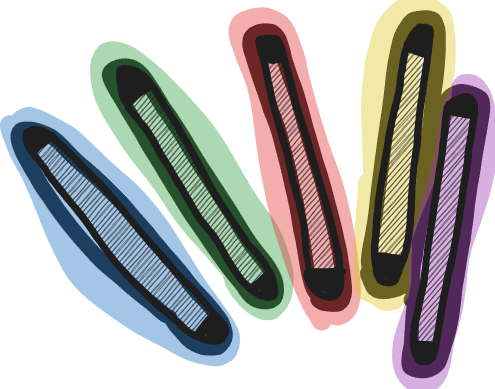
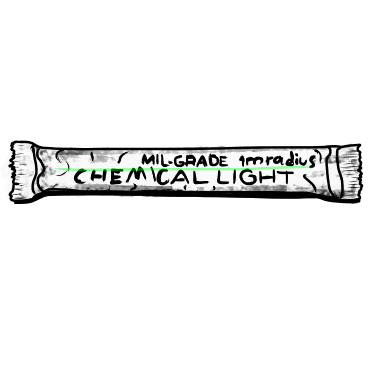
images

diff --git a/data.js b/data.js
@@ -22,7 +22,7 @@ const weapon = new Map([
     ["Stun Baton",      [null,"150cr","Adjacent","1d5 DMG","N/A","Blunt Force","Body Save or stunned 1 round.","stunbaton"]],
     ["Tranq Pistol",    ["D&C 7","250cr","Close","1d5 DMG","6","Blunt Force","If DMG dealt: enemy must Body Save or be unconscious 1d10 rounds.","tranq"]],
     ["Vibechete",       [null,"1kcr","Adjacent","3d10 DMG (AA)","N/A","Bleeding + Gore","When dealing a Wound, roll on BOTH the Bleeding AND Gore columns.","vibechete"]],
-    ["EMP Javelin*",    [null,"cost","Close","1d10 DMG","1","Bleeding","Disables electronics while embedded.","missing"]],
+    ["EMP Javelin*",    [null,"cost","Close","1d10 DMG","1","Bleeding","Disables electronics while embedded.",null]],
 
 ]);
 
@@ -34,7 +34,7 @@ const armor = new Map([
     ["Hazard Suit",             ["Environmental protection while exploring unknown planets.","4kcr","5","1 hrs","Normal",null,"Includes air filter, extreme heat/cold protection, hydration reclamation (1L of water lasts 4 days), short-range comms, headlamp, and radiation shielding.","hazardssuit"]],
     ["Standard Battle Dress",   ["Lightly-plated armor worn by most marines.","2kcr","7","None","Normal",null,"Includes short-range comms.","stdbattle"]],
     ["Advanced Battle Dress",   ["Heavy armor for marines deployed in high combat offworld engagements.","12kcr","10","1 hr","[-]",null,"Includes short-range comms, body cam, headlamp, HUD, exoskeletal weave (Strength Checks [+]), and radiation shielding. Damage Reduction: 3.","advanced battle dress1"]],
-    ["Standard Armor Vest*",    ["Light armor worn by law-enforcement.","1kcr","4","None","Normal",null,null,"missing"]],
+    ["Standard Armor Vest*",    ["Light armor worn by law-enforcement.","1kcr","4","None","Normal",null,null,null]],
 ]);
 
 // item stats
@@ -42,81 +42,81 @@ const item = new Map([
     // ["item",    ["name","cost",null,null,null,null,"description","img"]],
     ["Assorted Tools",      [null,"20cr",null,null,null,null,"Wrenches, spanners, screwdrivers, etc. Can be used as weapons in a pinch (1d5 DMG).","tools"]],
     ["Automed (x5)",        [null,"1.5kcr",null,null,null,null,"Nanotech pills that assist your body in repairing Damage by granting Advantage to Body Saves meant to repel disease and poison, as well as attempts to heal from rest.","automed"]],
-    ["Battery (High Power)",[null,"500cr",null,null,null,null,"Heavy duty battery used for powering laser cutters, salvage drones, and other items. Can be recharged in 1 hour if connected to power or in 6 hours with solar power. Add waterproofing (+500cr).","missing"]],
+    ["Battery (High Power)",[null,"500cr",null,null,null,null,"Heavy duty battery used for powering laser cutters, salvage drones, and other items. Can be recharged in 1 hour if connected to power or in 6 hours with solar power. Add waterproofing (+500cr).","battery"]],
     ["Binoculars",          [null,"150cr",null,null,null,null,"20x magnification. Add night vision (+300cr) or thermal vision (+1kcr).","binoculars1"]],
     ["Bioscanner",          [null,"3kcr",null,null,null,null,"Long Range. Allows the user to scan for signs of life. Can tell the location of signs of life, but not what that life is. Blocked by some materials at the Warden's discretion.","bioscan"]],
     ["Body Cam",            [null,"50cr",null,null,null,null,"A camera worn on your clothing that can stream video back to a control center so your other crewmembers cansee what you're seeing. Add night vision (+300cr) or thermal vision (+1kcr).","bodycam"]],
-    ["Chemlight (x5)",      [null,"5cr",null,null,null,null,"Small disposable glowsticks capable of dim illumination in a 1m radius.","missing"]],
+    ["Chemlight (x5)",      [null,"5cr",null,null,null,null,"Small disposable glowsticks capable of dim illumination in a 1m radius.","chemlight"]],
     ["Crowbar",             [null,"25cr",null,null,null,null,"Grants Advantage on Strength Checks to open jammed airlocks, lift heavy objects, etc. Cybernetic Diagnostic","crowbar1"]],
     ["Scanner",             [null,"2kcr",null,null,null,null,"Allows the user to scan androids and other cybernetic organisms in order to diagnose any physical or mental issues they may be having. Often distrusted by androids.","scanner"]],
     ["Electronic Tool Set", [null,"100cr",null,null,null,null,"A full set of tools for doing detailed repair or construction work on electronics.","tools"]],
-    ["Emergency Beacon",    [null,"2kcr",null,null,null,null,"A small device that sends up a flare and then emits a loud beep every few seconds. Additionally, sends out a call on all radio channels to ships or vehicles in the area, but can be blocked by a radio jammer.","missing"]],
-    ["Exoloader",           [null,"100kcr",null,null,null,null,"Open-air mechanical exoskeleton used for heavy lifting (up to 5000kg). Loader claws deal 1 Wound. User can only wear Standard Crew Attire or Standard Battle Dress while operating. Battery operated (48 hours of use).","missing"]],
+    ["Emergency Beacon",    [null,"2kcr",null,null,null,null,"A small device that sends up a flare and then emits a loud beep every few seconds. Additionally, sends out a call on all radio channels to ships or vehicles in the area, but can be blocked by a radio jammer.",null]],
+    ["Exoloader",           [null,"100kcr",null,null,null,null,"Open-air mechanical exoskeleton used for heavy lifting (up to 5000kg). Loader claws deal 1 Wound. User can only wear Standard Crew Attire or Standard Battle Dress while operating. Battery operated (48 hours of use).",null]],
     ["Explosives & Detonator",    [null,"500cr",null,null,null,null,"Explosive charge powerful enough to blow open an airlock. All organisms in Close Range must make a Body Save or take a Wound (Explosive). Detonator works at Long Range, but can be blocked by a radio jammer.","explosive"]],
     ["First Aid Kit",       [null,"75cr",null,null,null,null,"An assortment of dressings and treatments to help stop bleeding, bandage cuts, and treat other minor injuries.","firstaid"]],
     ["Flashlight",          [null,"30cr",null,null,null,null,"Handheld or shoulder mounted. Illuminates 10m ahead of the user.","torch"]],
-    ["Foldable Stretcher",  [null,"150cr",null,null,null,null,"Portable stretcher that can fit within a rucksack. Allows the user to safely strap down the patient and carry them to a location where their wounds can be better treated. Unfolds to roughly 2m.","missing"]],
+    ["Foldable Stretcher",  [null,"150cr",null,null,null,null,"Portable stretcher that can fit within a rucksack. Allows the user to safely strap down the patient and carry them to a location where their wounds can be better treated. Unfolds to roughly 2m.",null]],
     ["Geiger Counter",      [null,"20cr",null,null,null,null,"Detects radiation and displays radiation levels.","geiger"]],
     ["Heads-Up Display (HUD)",    [null,"100cr",null,null,null,null,"Often worn by marines, the HUD allows the wearer to see through the body cams of others in their unit, and connect to any smart-link upgraded weapon.","hud"]],
     ["Infrared Goggles",    [null,"1.5kcr",null,null,null,null,"Allows the wearer to see heat signatures, sometimes up to several hours old. Add night vision (+300cr).","goggles"]],
-    ["Jetpack",             [null,"75kcr",null,null,null,null,"Allows wearer to fly up to 100m high and up to a speed of 100km/hr for 2 hours on a tank of fuel. Deals 1d100[+] DMG if destroyed. Fuel can be refilled for 200cr.","missing"]],
+    ["Jetpack",             [null,"75kcr",null,null,null,null,"Allows wearer to fly up to 100m high and up to a speed of 100km/hr for 2 hours on a tank of fuel. Deals 1d100[+] DMG if destroyed. Fuel can be refilled for 200cr.",null]],
     ["Lockpick Set",        [null,"40cr",null,null,null,null,"A highly advanced set of tools meant for hacking basic airlock and electronic door systems.","lockpick"]],
     ["Long-range Comms",    [null,"1kcr",null,null,null,null,"Rucksack-sized communication device for use in surface-to-ship communication.","commslong"]],
     ["Mag-boots",           [null,"350cr",null,null,null,null,"Grants a magnetic grip to the wearer, allowing them to easily walk on the exterior of a ship (in space, while docked, or free-floating), metal-based asteroids, or any other magnetic surface.","magboots"]],
     ["Medscanner",          [null,"8kcr",null,null,null,null,"Allows the user to scan a living or dead body to analyze it for disease or abnormalities, without having to do a biopsy or autopsy. Results may not be instantaneous and may require a lab for complete analysis.","medscanner"]],
     ["MoHab Unit",          [null,"1kcr",null,null,null,null,"Tent, canteen, stove, rucksack, compass, and sleeping bag.","mohab"]],
     ["MRE (x7)",            [null,"70cr",null,null,null,null,"“Meal, Ready-to-Eat.” Self-contained, individual field rations in lightweight packaging. Each has sufficient sustenance for a single person for one day (does not include water).","mre"]],
-    ["Mylar Blanket",       [null,"10cr",null,null,null,null,"Lightweight blanket made of heat-reflective material. Often used for thermal regulation of patients suffering from extreme cold or other trauma.","missing"]],
+    ["Mylar Blanket",       [null,"10cr",null,null,null,null,"Lightweight blanket made of heat-reflective material. Often used for thermal regulation of patients suffering from extreme cold or other trauma.",null]],
     ["Oxygen Tank",         [null,"50cr",null,null,null,null,"When attached to a vaccsuit provides up to 12 hours of oxygen under normal circumstances, 4 hours under stressful circumstances. Explosive.","o2"]],
-    ["Paracord (50m)",      [null,"10cr",null,null,null,null,"General purpose lightweight nylon rope.","missing"]],
-    ["Patch Kit (x3)",      [null,"200cr",null,null,null,null,"Repairs punctured and torn vaccsuits, restoring their space readiness. Patched vaccsuits have an AP of 1.","missing"]],
+    ["Paracord (50m)",      [null,"10cr",null,null,null,null,"General purpose lightweight nylon rope.",null]],
+    ["Patch Kit (x3)",      [null,"200cr",null,null,null,null,"Repairs punctured and torn vaccsuits, restoring their space readiness. Patched vaccsuits have an AP of 1.",null]],
     ["Personal Locator",    [null,"200cr",null,null,null,null,"Allows crewmembers at a control center (or on the bridge of a ship) to track the location of the wearer.","locator"]],
-    ["Pet (Organic)",       [null,"200kcr",null,null,null,null,"Small to medium-sized organic pet animal. Larger or rare pets cost 2d10x base pet cost.","missing"]],
-    ["Pet (Synthetic)",     [null,"15kcr",null,null,null,null,"Small to medium-sized synthetic pet animal. Larger or rare pets cost 2d10x base pet cost.","missing"]],
-    ["Portable Computer Terminal",  [null,"1.5kcr",null,null,null,null,"Flat computer monitor, keyboard and interface which allows the user to hack into pre-existing computers and networks, as well as perform standard computer tasks.","missing"]],
+    ["Pet (Organic)",       [null,"200kcr",null,null,null,null,"Small to medium-sized organic pet animal. Larger or rare pets cost 2d10x base pet cost.",null]],
+    ["Pet (Synthetic)",     [null,"15kcr",null,null,null,null,"Small to medium-sized synthetic pet animal. Larger or rare pets cost 2d10x base pet cost.",null]],
+    ["Portable Computer Terminal",  [null,"1.5kcr",null,null,null,null,"Flat computer monitor, keyboard and interface which allows the user to hack into pre-existing computers and networks, as well as perform standard computer tasks.",null]],
     ["Radiation Pills (x5)",    [null,"200cr",null,null,null,null,"Take 1d5 DMG and reduce your Radiation Level (see pg. 33.2) by 1 for 2d10 minutes.","pills"]],
     ["Radio Jammer",        [null,"4kcr",null,null,null,null,"Rucksack-sized device which, when activated, renders all radio signals within 100km incomprehensible.","radiojammer"]],
     ["Rebreather",          [null,"500cr",null,null,null,null,"When worn, filters toxic air and/or allows for underwater breathing for up to 20 minutes at a time without resurfacing. Can be connected to an oxygen tank.","rebreather"]],
-    ["Rucksack",            [null,"50cr",null,null,null,null,"Large, durable, waterproof backpack.","missing"]],
-    ["Salvage Drone",       [null,"10kcr",null,null,null,null,"Battery operated remote controlled drone. Requires two hands to operate receiver. Can fly up to 450m high, to a distance of 3km from operator. Can run for 2 hours. Can record and transmit footage to receiver. If purchased separately, can be equipped with up to two of the following: binoculars, radio jammer, Geiger counter, laser cutter, medscanner, personal locator, infrared goggles, emergency beacon, cybernetic diagnostic scanner, bioscanner. Can carry up to 20-30kg.","missing"]],
+    ["Rucksack",            [null,"50cr",null,null,null,null,"Large, durable, waterproof backpack.",null]],
+    ["Salvage Drone",       [null,"10kcr",null,null,null,null,"Battery operated remote controlled drone. Requires two hands to operate receiver. Can fly up to 450m high, to a distance of 3km from operator. Can run for 2 hours. Can record and transmit footage to receiver. If purchased separately, can be equipped with up to two of the following: binoculars, radio jammer, Geiger counter, laser cutter, medscanner, personal locator, infrared goggles, emergency beacon, cybernetic diagnostic scanner, bioscanner. Can carry up to 20-30kg.",null]],
     ["Sample Collection Kit",   [null,"50cr",null,null,null,null,"Used to research xenoflora and xenofauna in the field. Can take vital signs, DNA samples ,and collect other data on foreign material. Results may not be instantaneous and may require a lab for complete analysis.","samplekit"]],
     ["Short-range Comms",   [null,"100cr",null,null,null,null,"Allows communication from ship-to-ship within a reasonable distance, as well as surface-to-surface within a dozen kilometers. Blocked by radio jammer.","commsshort"]],
-    ["Smart-link Add-On",   [null,"10kcr",null,null,null,null,"Grants remote viewing, recording, and operation of a ranged weapon as well as +5 DMG to the weapon.","missing"]],
+    ["Smart-link Add-On",   [null,"10kcr",null,null,null,null,"Grants remote viewing, recording, and operation of a ranged weapon as well as +5 DMG to the weapon.",null]],
     ["Stimpak",             [null,"1kcr",null,null,null,null,"Cures cryosickness, reduces Stress by 1, restores 1d10 Health, and grants [+] to all rolls for 1d10 min. Roll 1d10. If you roll under the amount of doses you've taken in the past 24 hours, make a Death Save.","stimpak"]],
     ["Water Filtration Device", [null,"50cr",null,null,null,null,"Can pump 4 liters of filtered water per hour from even the most brackish swamps.","waterfilter"]],
-    ["Nano tape (double sided)*",    ["name","cost",null,null,null,null,"Synthetic adhesive polymer tape consisting of arrays of carbon nanotubes.","missing"]],
-    ["Micro-filament wire*",    ["name","cost",null,null,null,null,"Thin and durable wire.","missing"]],    
+    ["Nano tape (double sided)*",    ["name","cost",null,null,null,null,"Synthetic adhesive polymer tape consisting of arrays of carbon nanotubes.","nanotape"]],
+    ["Micro-filament wire*",    ["name","cost",null,null,null,null,"Thin and durable wire.",null]],    
 ]);
 
 // Cyberware stats
 const cyberware = new Map([
     // ["cyberware", ["cyberware","cost","slots",null,null,"requires","description",null]],
-    ["Big Switch",  [null,"18kcr","1",null,null,null,"Allows the user to change their primary sexual characteristics. Takes 1 hour and a mental trigger.","missing"]],
-    ["Black Box",   [null,"200kcr","1",null,null,"Slicksocket","Eidetic memory backup. Memories can be watched with an OGRE or projected with a Holoprojector. Only saves complete memories from the time of installation onward. Also stores any uploaded data or slickware.","missing"]],
-    ["Cloakskin",   [null,"200kcr","1",null,null,null,"Near-invisibility for 5 minutes once per day. If a Wound is gained during use there is a 30% chance condition is permanent.","missing"]],
-    ["Deadswitch",  [null,"5kcr","1",null,null,"Black Box","Feigns death for 2 weeks. Every time the switch is used there's a cumulative 5% chance the condition is permanent.","missing"]],
-    ["Fangs",       [null,"2kcr","0",null,null,null,"Hollow cybernetic fangs. 2d10 DMG. Can store up to 3 doses of poison, medicine or any other drug.","missing"]],
-    ["Handcannon",  [null,"6kcr+ Weapon","Varies*",null,null,null,"Conceals a weapon inside a prosthetic limb. Slots and cost are based on the weapon used.","missing"]],
-    ["Holoprojector", [null,"750cr","1",null,null,"OGRE","Holographically project stored data (collected via OGRE, Installed Body Cam, Black Box, Slicksocket, etc.).","missing"]],
-    ["Hotswap",     [null,"5kcr","0",null,null,null,"Allows a 1 turn changing of cyberware.","missing"]],
-    ["Huntershot", [null,"4.5kcr","1",null,null,"OGRE","Holds 1 dart which can be fired on command, upon death or unconsciousness. 2d10 DMG.","missing"]],
-    ["Little Switch", [null,"8kcr","0",null,null,null,"Allows the user to smooth or roughen their appearance. Takes 1 day and a mental trigger.","missing"]],
-    ["Loudmouth", [null,"500cr","0",null,null,null,"Allows for recording and playback of audio. Maximum volume equivalent to that of a flashbang.","missing"]],
-    ["Lumatat", [null,"200cr+","0",null,null,null,"Cosmetic, color changing, animated or luminescent tattoos.","missing"]],
-    ["OGRE", [null,"24kcr","1",null,null,null,"Occular Graphic Rendering Engine. A Heads-Up Display implanted into the optical nerve which projects directly into user's field of vision.","missing"]],
-    ["Panic Button", [null,"10kcr","1",null,null,null,"When triggered (on purpose or upon death) violently detonates hidden explosives. Everyone within Close Range must make a Body Save or take 3d10 DMG. If knocked unconscious there is a 5% chance this will trigger automatically.","missing"]],
-    ["Panzersfist", [null,"5mcr","3",null,null,"Prosthetic","A miniaturized missile launcher hidden inside a prosthetic. Extreme Range, 2d10x10 DMG. Shots: 2. Wound: Fire/Explosion [+]. Reloading takes a round. Without a Spinal Rig user must make a Body Save or be flung backwards. Takes 2 rounds to fire.","missing"]],
-    ["Prosthetic", [null,"2kcr","0",null,null,null,"Artificial hand, foot, arm or leg. Prosthetic organs can also replace any damaged organs, though at 10x the cost.","missing"]],
-    ["Remote Uplink", [null,"2mcr","1",null,null,"Black Box","Once per day sends a PDCP encrypted broadcast of user's Black Box data to a secure backup site for future retrieval or reloading. Many services require authorized next-of-kin.","missing"]],
-    ["Retractable Nanoblade", [null,"80kcr","1",null,null,null,"Retractable 9\" blade which can cut through almost anything. 2d10 DMG.","missing"]],
-    ["Revenant Protocol", [null,"20kcr","1",null,null,null,"If triggered within 2 rounds of death, allows the user to continue fighting for 2d10 rounds after death. If there are no remaining enemies, user must roll randomly for targets.","missing"]],
-    ["Scapegoat System", [null,"10kcr","1",null,null,null,"For every 10 DMG user takes, Scapegoat System gains 1 Charge. Charges can be released via touch for 2d10 DMG. Holds 3 charges.","missing"]],
-    ["Slicksocket", [null,"500cr","1",null,null,null,"Cranial input jack which allows slickware to be installed.","missing"]],
-    ["Sockpuppet", [null,"1mcr+ Weapon","1",null,null,"Spinal Rig","Allows the user to install a weapon which can fire on its own once per round using the user's Combat Stat.","missing"]],
-    ["Spider Mount", [null,"250kcr","0",null,null,"Spinal Rig","Grants +1 slot. Can only be installed once.","missing"]],
-    ["Spinal Rig", [null,"150kcr","1",null,null,null,"Mechanical rig built for assisted heavy-lifting. User gains 10 Strength (and 1 slot). Can only be installed once.","missing"]],
-    ["Subdermal Armor", [null,"5mcr","1",null,null,null,"Grants user a layer of rechargeable armor (5 AP) beneath their skin. Takes 2 weeks to regrow if used.","missing"]],
-    ["Tattletale", [null,"2kcr","0",null,null,null,"Detachable audio surveillance bug which can be traced up to 100km to within a 100m area.","missing"]],
-    ["Terminal Jack", [null,"750cr","1",null,null,null,"Port allowing interface with terminals, smartlink weapons, and vehicles. Can download data from linked systems or upload information from a Black Box.","missing"]],
-    ["Whiplash Injector", [null,"4mcr","1",null,null,null,"Single use. Automatically restores 1 Wound upon user's death. Reduces Body Save by 1d10 [-] after use.","missing"]]
+    ["Big Switch",  [null,"18kcr","1",null,null,null,"Allows the user to change their primary sexual characteristics. Takes 1 hour and a mental trigger.",null]],
+    ["Black Box",   [null,"200kcr","1",null,null,"Slicksocket","Eidetic memory backup. Memories can be watched with an OGRE or projected with a Holoprojector. Only saves complete memories from the time of installation onward. Also stores any uploaded data or slickware.",null]],
+    ["Cloakskin",   [null,"200kcr","1",null,null,null,"Near-invisibility for 5 minutes once per day. If a Wound is gained during use there is a 30% chance condition is permanent.",null]],
+    ["Deadswitch",  [null,"5kcr","1",null,null,"Black Box","Feigns death for 2 weeks. Every time the switch is used there's a cumulative 5% chance the condition is permanent.",null]],
+    ["Fangs",       [null,"2kcr","0",null,null,null,"Hollow cybernetic fangs. 2d10 DMG. Can store up to 3 doses of poison, medicine or any other drug.",null]],
+    ["Handcannon",  [null,"6kcr+ Weapon","Varies*",null,null,null,"Conceals a weapon inside a prosthetic limb. Slots and cost are based on the weapon used.",null]],
+    ["Holoprojector", [null,"750cr","1",null,null,"OGRE","Holographically project stored data (collected via OGRE, Installed Body Cam, Black Box, Slicksocket, etc.).",null]],
+    ["Hotswap",     [null,"5kcr","0",null,null,null,"Allows a 1 turn changing of cyberware.",null]],
+    ["Huntershot", [null,"4.5kcr","1",null,null,"OGRE","Holds 1 dart which can be fired on command, upon death or unconsciousness. 2d10 DMG.",null]],
+    ["Little Switch", [null,"8kcr","0",null,null,null,"Allows the user to smooth or roughen their appearance. Takes 1 day and a mental trigger.",null]],
+    ["Loudmouth", [null,"500cr","0",null,null,null,"Allows for recording and playback of audio. Maximum volume equivalent to that of a flashbang.",null]],
+    ["Lumatat", [null,"200cr+","0",null,null,null,"Cosmetic, color changing, animated or luminescent tattoos.",null]],
+    ["OGRE", [null,"24kcr","1",null,null,null,"Occular Graphic Rendering Engine. A Heads-Up Display implanted into the optical nerve which projects directly into user's field of vision.",null]],
+    ["Panic Button", [null,"10kcr","1",null,null,null,"When triggered (on purpose or upon death) violently detonates hidden explosives. Everyone within Close Range must make a Body Save or take 3d10 DMG. If knocked unconscious there is a 5% chance this will trigger automatically.",null]],
+    ["Panzersfist", [null,"5mcr","3",null,null,"Prosthetic","A miniaturized missile launcher hidden inside a prosthetic. Extreme Range, 2d10x10 DMG. Shots: 2. Wound: Fire/Explosion [+]. Reloading takes a round. Without a Spinal Rig user must make a Body Save or be flung backwards. Takes 2 rounds to fire.",null]],
+    ["Prosthetic", [null,"2kcr","0",null,null,null,"Artificial hand, foot, arm or leg. Prosthetic organs can also replace any damaged organs, though at 10x the cost.",null]],
+    ["Remote Uplink", [null,"2mcr","1",null,null,"Black Box","Once per day sends a PDCP encrypted broadcast of user's Black Box data to a secure backup site for future retrieval or reloading. Many services require authorized next-of-kin.",null]],
+    ["Retractable Nanoblade", [null,"80kcr","1",null,null,null,"Retractable 9\" blade which can cut through almost anything. 2d10 DMG.",null]],
+    ["Revenant Protocol", [null,"20kcr","1",null,null,null,"If triggered within 2 rounds of death, allows the user to continue fighting for 2d10 rounds after death. If there are no remaining enemies, user must roll randomly for targets.",null]],
+    ["Scapegoat System", [null,"10kcr","1",null,null,null,"For every 10 DMG user takes, Scapegoat System gains 1 Charge. Charges can be released via touch for 2d10 DMG. Holds 3 charges.",null]],
+    ["Slicksocket", [null,"500cr","1",null,null,null,"Cranial input jack which allows slickware to be installed.",null]],
+    ["Sockpuppet", [null,"1mcr+ Weapon","1",null,null,"Spinal Rig","Allows the user to install a weapon which can fire on its own once per round using the user's Combat Stat.",null]],
+    ["Spider Mount", [null,"250kcr","0",null,null,"Spinal Rig","Grants +1 slot. Can only be installed once.",null]],
+    ["Spinal Rig", [null,"150kcr","1",null,null,null,"Mechanical rig built for assisted heavy-lifting. User gains 10 Strength (and 1 slot). Can only be installed once.",null]],
+    ["Subdermal Armor", [null,"5mcr","1",null,null,null,"Grants user a layer of rechargeable armor (5 AP) beneath their skin. Takes 2 weeks to regrow if used.",null]],
+    ["Tattletale", [null,"2kcr","0",null,null,null,"Detachable audio surveillance bug which can be traced up to 100km to within a 100m area.",null]],
+    ["Terminal Jack", [null,"750cr","1",null,null,null,"Port allowing interface with terminals, smartlink weapons, and vehicles. Can download data from linked systems or upload information from a Black Box.",null]],
+    ["Whiplash Injector", [null,"4mcr","1",null,null,null,"Single use. Automatically restores 1 Wound upon user's death. Reduces Body Save by 1d10 [-] after use.",null]]
 ]);
